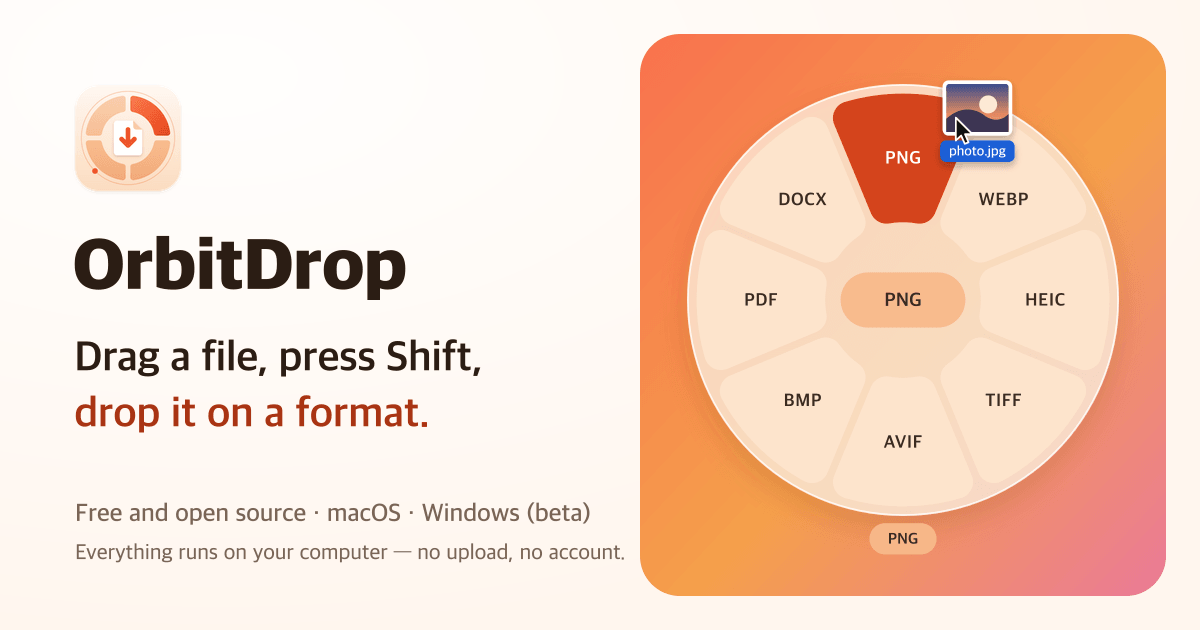
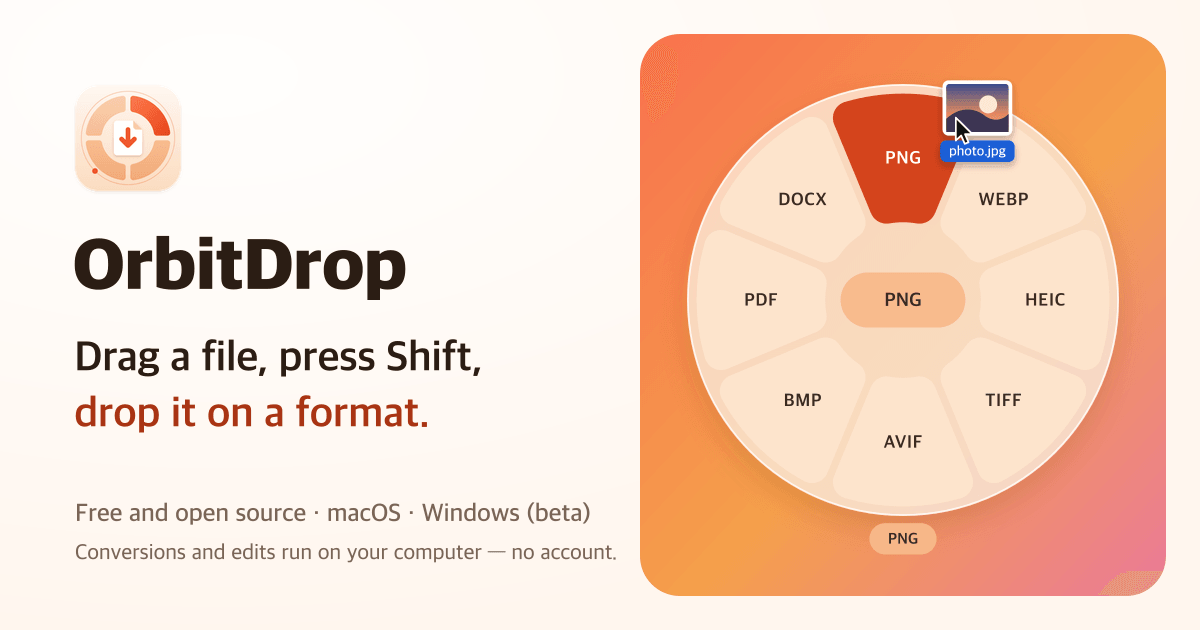
Privacy wording: name the Claude analysis exception in the welcome window and About
The 1.1.0 welcome footer and About tagline still said that everything is processed on this
computer, which is no longer true once the user turns on Claude analysis. The welcome line now
names the exception, the About tagline is scoped to conversions and edits, the website's Open
Graph images no longer say "no upload", and docs/permissions.md lists both network uses.

An i18n test now fails on any blanket "everything stays here" message that does not name Claude.

Changed region(s): [[0.0617, 0.8444, 0.5242, 0.9048], [0.925, 0.9048, 0.9867, 0.9651]]

diff --git a/apps/desktop/test/renderer/i18n.test.ts b/apps/desktop/test/renderer/i18n.test.ts
@@ -1,8 +1,10 @@
 import { ERROR_CODES, WARNING_CODES } from '@orbitdrop/contracts';
 import { describe, expect, it } from 'vitest';
 import enErrors from '../../src/shared/locales/en/errors.json';
+import enMain from '../../src/shared/locales/en/main.json';
 import enUi from '../../src/shared/locales/en/ui.json';
 import koErrors from '../../src/shared/locales/ko/errors.json';
+import koMain from '../../src/shared/locales/ko/main.json';
 import koUi from '../../src/shared/locales/ko/ui.json';
 import { createTranslator, interpolate } from '../../src/renderer/src/i18n/catalog';
 import { formatBytes, percentChange } from '../../src/renderer/src/i18n/format';
@@ -27,6 +29,23 @@ describe('locale catalogs', () => {
   it('errors.json contains nothing but error.* and warning.* for known codes', () => {
     const known = new Set([...ERROR_CODES.map((c) => `error.${c}`), ...WARNING_CODES.map((c) => `warning.${c}`)]);
     for (const key of Object.keys(koErrors)) expect(known.has(key), key).toBe(true);
+  });
+
+  it('no message claims that everything stays on this computer without naming the Claude analysis exception', () => {
+    // Since 1.1.0 the optional Claude analysis sends a file to Anthropic when the user drops it on "Claude 분석".
+    // The 1.1.0 welcome window and About still said "모든 처리는 이 컴퓨터 안에서만 이루어집니다"; a blanket claim
+    // like that must name the exception (a claim scoped to conversions and edits needs none).
+    const blanket = /모든 처리|이 컴퓨터 안에서만|컴퓨터 밖으로 나가지|everything is processed|everything runs|never leave this computer/i;
+    const catalogs: Record<string, string>[] = [koUi, koErrors, koMain, enUi, enErrors, enMain];
+    let checked = 0;
+    for (const catalog of catalogs) {
+      for (const [key, text] of Object.entries(catalog)) {
+        if (!blanket.test(text)) continue;
+        checked++;
+        expect(text, key).toMatch(/Claude/);
+      }
+    }
+    expect(checked).toBeGreaterThanOrEqual(4); // welcome.privacy and about.legal.privacyLocal in both languages
   });
 
   it('no message is empty and both languages use the same placeholders', () => {

diff --git a/apps/desktop/test/renderer/welcome.test.tsx b/apps/desktop/test/renderer/welcome.test.tsx
@@ -33,6 +33,10 @@ describe('welcome window', () => {
     expect([...container.querySelectorAll('.welcome-key-row kbd')].map((kbd) => kbd.textContent)).toEqual(['Shift', 'Option', 'Shift']);
     expect(screen.getByText(/메뉴 막대\(화면 오른쪽 위\)에서 실행되며 Dock에는 나타나지 않습니다/)).toBeTruthy();
     expect(screen.queryByText(/숨겨진 아이콘 표시/)).toBeNull();
+    // The privacy line names the one exception to "processed on this computer": the optional Claude analysis.
+    expect(container.querySelector('.welcome-privacy')?.textContent).toBe(
+      '직접 켜는 Claude 분석을 빼면 모든 처리는 이 컴퓨터 안에서 이루어집니다. 계정이 필요 없고 사용 기록도 보내지 않습니다.',
+    );
   });
 
   it('Windows: Ctrl+Shift for tools (the Windows default), File Explorer, the notification area and its ^ overflow', () => {
@@ -123,5 +127,6 @@ describe('welcome window', () => {
     expect(screen.getByRole('button', { name: 'Get Started' })).toBeTruthy();
     const list = screen.getByRole('list');
     expect(within(list).getByText('Start dragging a file in Finder.')).toBeTruthy();
+    expect(screen.getByText(/^Apart from Claude analysis, which you turn on yourself, everything is processed on this computer\./)).toBeTruthy();
   });
 });

diff --git a/docs/PROGRESS.md b/docs/PROGRESS.md
@@ -485,3 +485,32 @@ and two more full runs. Open: the native helpers must know `tool.analyze` / icon
 analysis-enabled configure reaches them (parallel branch); the live check with the owner's key; Node's fetch
 in main/worker does not use the system proxy. At integration the PDF limit went from 30 MiB to 20 MiB: base64 makes a
 30 MiB PDF about 40 MB, past the API's 32 MB request limit (a 413 only after the upload); 20 MiB is about 28 MB.
+
+## Stage 12 — privacy wording after Claude analysis (2026-11-16, branch `fix/privacy-wording`)
+
+Found while writing the Windows QA checklist: two lines of the 1.1.0 app still made the blanket pre-analysis
+claim. The welcome window footer (`welcome.privacy`) and the About tagline (`about.tagline`) said "모든 처리는 이
+컴퓨터 안에서만 이루어집니다" / "Everything is processed on this computer". Since 1.1.0 that is only true unless the
+user turns on Claude analysis. The About privacy list, the website text, the privacy statement and the installer
+text were already right.
+
+- `welcome.privacy`: "직접 켜는 Claude 분석을 빼면 모든 처리는 이 컴퓨터 안에서 이루어집니다. …" / "Apart from Claude
+  analysis, which you turn on yourself, everything is processed on this computer. …".
+- `about.tagline`: the claim is now scoped to "변환과 편집" / "Every conversion and edit".
+- Website Open Graph images (`site/scripts/build-assets.mjs` → `site/assets/og-{ko,en}.png`): the footer said
+  "업로드도, 계정도 없습니다" / "no upload, no account". It now reads "변환과 편집은 모두 내 컴퓨터에서 — 계정도 필요
+  없습니다" / "Conversions and edits run on your computer — no account." The English line ends 26 px before the
+  orange panel. A first, longer wording ran into the panel. That render also showed a palette-dithering speckle
+  patch in the wheel, which is gone in the committed render. The PNG settings are unchanged.
+- `docs/permissions.md`: network use is two items, the update check and the opt-in Claude analysis.
+- Guard: `i18n.test.ts` fails when any ko/en ui, errors or main message makes a blanket "everything stays here"
+  claim without naming Claude. It failed on the 1.1.0 strings and passes now. `welcome.test.tsx` checks the
+  rendered footer in both languages.
+- `docs/screenshots/desktop-main-about.png` regenerated by the E2E run.
+
+Verified locally (macOS 26, arm64):
+- Typecheck clean.
+- vitest 1399 passed / 7 skipped.
+- Playwright E2E 47/47, plus a one-off check of the welcome and About windows in ko/en. The privacy line is 2
+  lines in Korean and 3 in English, never under the Start button, with no horizontal overflow.
+- `site/scripts/check.mjs` ok.

diff --git a/docs/permissions.md b/docs/permissions.md
@@ -15,8 +15,12 @@ Drop Zone)로 변환·편집은 계속 쓸 수 있어야 한다.
 | 파일 접근 | 사용자가 드래그·선택한 파일 읽기, 원본 폴더에 결과 쓰기 | processor worker(utilityProcess), main | 작업 실행 시 |
 | 입력 관찰 | 드래그 중 보조키·마우스 버튼 상태, 드래그 시작 신호 관찰 | 네이티브 helper | 전역 드래그 기능이 켜져 있을 때 |
 
-OrbitDrop은 계정·네트워크·카메라·마이크·위치·연락처 권한을 쓰지 않는다. 모든 처리는 로컬이다. 네트워크는 업데이트 확인(GitHub
-Releases, 설정 › 일반에서 끌 수 있음)에만 쓴다 — [packaging.md §9](packaging.md#9-자동-업데이트).
+OrbitDrop은 계정·네트워크·카메라·마이크·위치·연락처 권한을 쓰지 않는다. 변환과 편집은 모두 로컬에서 처리한다. 네트워크는 두 곳에만
+쓴다.
+
+* 업데이트 확인(GitHub Releases, 설정 › 일반에서 끌 수 있음) — [packaging.md §9](packaging.md#9-자동-업데이트).
+* 선택 기능인 Claude 분석. 기본으로 꺼져 있고, 사용자가 켜고 자기 Anthropic API 키를 저장한 뒤 휠의 ‘Claude 분석’에 놓은 파일만
+  api.anthropic.com으로 보낸다 — [packaging.md §10](packaging.md#10-claude-분석-선택-기능--네트워크).
 
 ## 2. macOS
 
